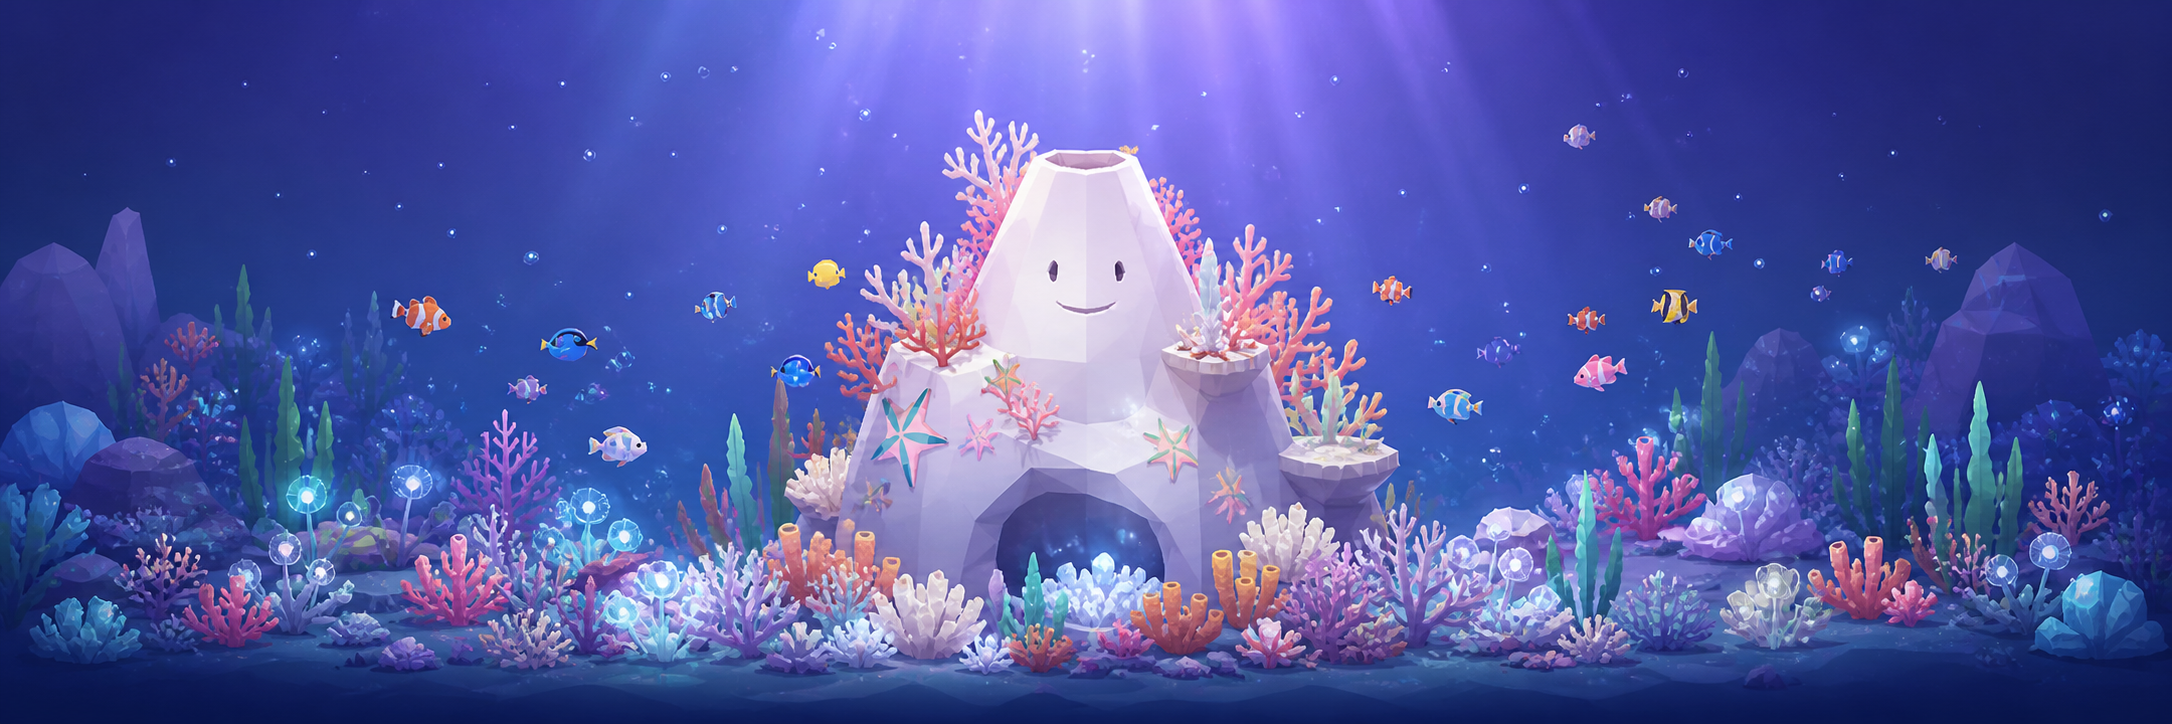
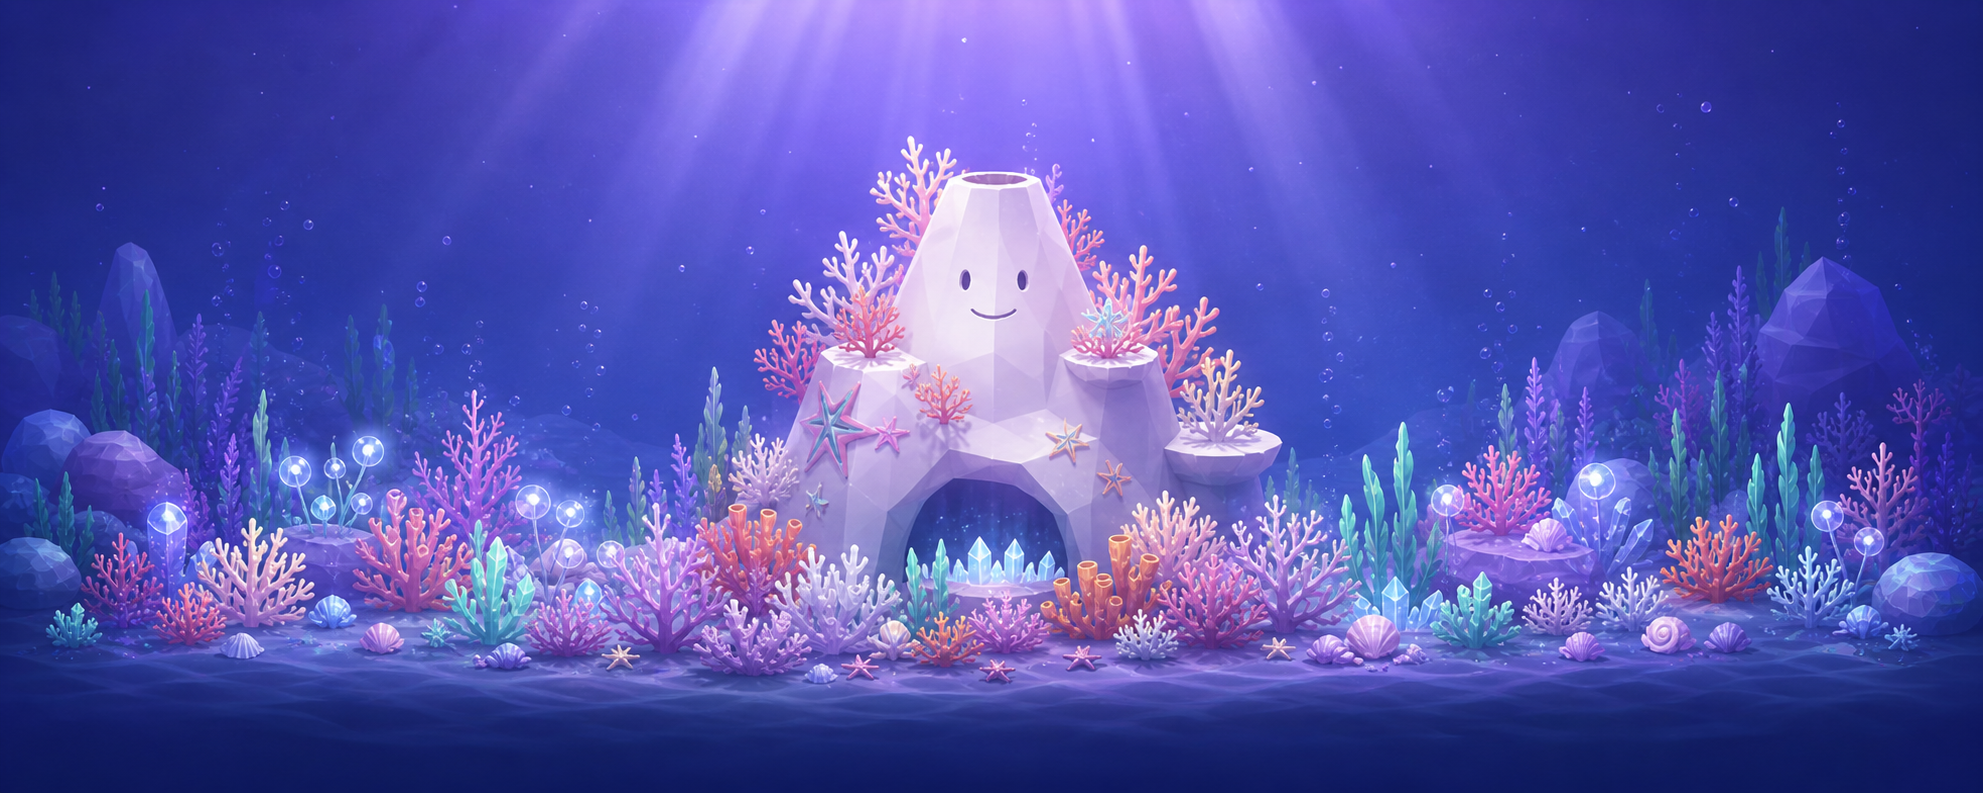
Remove taskbar UI chrome and use global input reactions

diff --git a/src/ui/app.ts b/src/ui/app.ts
@@ -1,29 +1,10 @@
-import {
-  Camera,
-  Maximize2,
-  Minimize2,
-  Waves,
-  createIcons
-} from "lucide";
 import { connectInputRouter } from "../input/inputRouter";
 import { TaskbarReefRenderer } from "../render/TaskbarReefRenderer";
 import {
-  applyInputAction,
   createInitialReefState,
   setReefMode,
   tickReefState
 } from "../simulation/reefState";
-
-const refreshIcons = (): void => {
-  createIcons({
-    icons: {
-      Camera,
-      Maximize2,
-      Minimize2,
-      Waves
-    }
-  });
-};
 
 export const bootAbyssriumDesk = (): void => {
   const root = document.querySelector<HTMLDivElement>("#app");
@@ -54,20 +35,6 @@ export const bootAbyssriumDesk = (): void => {
 
       <section class="reef-dock" data-mode="compact" aria-label="Abyssrium reef taskbar">
         <canvas class="reef-canvas" aria-hidden="true"></canvas>
-        <div class="reef-hud">
-          <span class="reef-mark" aria-hidden="true"><i data-lucide="waves"></i></span>
-          <div class="reef-meter" aria-label="reef activity">
-            <span data-glow-meter></span>
-          </div>
-          <div class="reef-actions">
-            <button class="icon-button" type="button" data-action="capture" aria-label="react">
-              <i data-lucide="camera"></i>
-            </button>
-            <button class="icon-button" type="button" data-action="toggle" aria-label="expand">
-              <i data-lucide="maximize-2"></i>
-            </button>
-          </div>
-        </div>
       </section>
 
       <nav class="windows-taskbar" aria-label="desktop taskbar mock">
@@ -79,41 +46,17 @@ export const bootAbyssriumDesk = (): void => {
     </main>
   `;
 
-  refreshIcons();
-
   const reefDock = root.querySelector<HTMLElement>(".reef-dock");
   const canvas = root.querySelector<HTMLCanvasElement>(".reef-canvas");
-  const toggleButton = root.querySelector<HTMLButtonElement>('[data-action="toggle"]');
-  const captureButton = root.querySelector<HTMLButtonElement>('[data-action="capture"]');
 
-  if (!reefDock || !canvas || !toggleButton || !captureButton) {
+  if (!reefDock || !canvas) {
     throw new Error("Taskbar reef DOM failed to initialize.");
   }
-
-  let renderedMode = "";
 
   const renderState = (): void => {
     root.toggleAttribute("data-expanded", state.mode === "expanded");
     reefDock.dataset.mode = state.mode;
     reefDock.style.setProperty("--reef-glow", state.glow.toFixed(3));
-
-    const glowMeter = root.querySelector<HTMLElement>("[data-glow-meter]");
-    if (glowMeter) {
-      glowMeter.style.transform = `scaleX(${Math.max(0.08, state.glow)})`;
-    }
-
-    if (renderedMode !== state.mode) {
-      toggleButton.setAttribute(
-        "aria-label",
-        state.mode === "compact" ? "expand" : "collapse"
-      );
-      toggleButton.innerHTML =
-        state.mode === "compact"
-          ? '<i data-lucide="maximize-2"></i>'
-          : '<i data-lucide="minimize-2"></i>';
-      renderedMode = state.mode;
-      refreshIcons();
-    }
   };
 
   const renderer = new TaskbarReefRenderer(canvas, () => state, (now, delta) => {
@@ -132,27 +75,10 @@ export const bootAbyssriumDesk = (): void => {
     onStateChange: renderState
   });
 
-  toggleButton.addEventListener("click", () => {
+  reefDock.addEventListener("click", () => {
     setReefMode(state, state.mode === "compact" ? "expanded" : "compact");
     renderState();
     window.setTimeout(() => renderer.resize(), 180);
-  });
-
-  captureButton.addEventListener("click", () => {
-    const action = {
-      kind: "capture" as const,
-      at: performance.now(),
-      intensity: 1.2,
-      x: reefDock.clientWidth * 0.5,
-      y: reefDock.clientHeight * 0.5
-    };
-    applyInputAction(state, action);
-    renderer.pushInput(action);
-    if (state.mode === "compact") {
-      setReefMode(state, "expanded");
-      window.setTimeout(() => renderer.resize(), 180);
-    }
-    renderState();
   });
 
   renderState();

diff --git a/src/styles/app.css b/src/styles/app.css
@@ -205,6 +205,7 @@ button {
     border-radius 220ms ease,
     box-shadow 220ms ease;
   isolation: isolate;
+  cursor: pointer;
 }
 
 .reef-dock[data-mode="expanded"] {
@@ -217,102 +218,6 @@ button {
   inset: 0;
   width: 100%;
   height: 100%;
-}
-
-.reef-hud {
-  position: absolute;
-  right: 0;
-  bottom: 0;
-  left: 0;
-  z-index: 2;
-  display: grid;
-  grid-template-columns: 48px minmax(92px, 164px) auto;
-  gap: 12px;
-  align-items: center;
-  height: var(--reef-compact-height);
-  padding: 8px 10px 8px 14px;
-  pointer-events: none;
-}
-
-.reef-dock[data-mode="expanded"] .reef-hud {
-  background: linear-gradient(
-    180deg,
-    rgba(3, 18, 30, 0),
-    rgba(3, 18, 30, 0.44)
-  );
-}
-
-.reef-mark {
-  display: grid;
-  place-items: center;
-  flex: 0 0 auto;
-  width: 34px;
-  height: 34px;
-  border: 1px solid rgba(227, 254, 255, 0.58);
-  border-radius: 999px;
-  color: #dffcff;
-  background: rgba(8, 45, 61, 0.56);
-  box-shadow: inset 0 0 18px rgba(100, 243, 255, 0.2);
-}
-
-.reef-mark svg,
-.icon-button svg {
-  width: 18px;
-  height: 18px;
-  stroke-width: 2.1;
-}
-
-.reef-meter {
-  justify-self: end;
-  width: min(164px, 20vw);
-  height: 5px;
-  overflow: hidden;
-  border-radius: 999px;
-  background: rgba(223, 252, 255, 0.19);
-  box-shadow: inset 0 0 10px rgba(1, 18, 26, 0.34);
-}
-
-.reef-meter span {
-  display: block;
-  width: 100%;
-  height: 100%;
-  border-radius: inherit;
-  background: linear-gradient(90deg, var(--reef-cyan), var(--reef-coral));
-  transform: scaleX(0.4);
-  transform-origin: left center;
-  transition: transform 160ms ease;
-}
-
-.reef-actions {
-  display: flex;
-  justify-self: end;
-  gap: 8px;
-  pointer-events: auto;
-}
-
-.icon-button {
-  display: grid;
-  place-items: center;
-  width: 38px;
-  height: 38px;
-  padding: 0;
-  border: 1px solid rgba(224, 253, 255, 0.5);
-  border-radius: 10px;
-  color: #f5feff;
-  background: rgba(5, 31, 45, 0.54);
-  box-shadow:
-    inset 0 0 16px rgba(95, 230, 255, 0.14),
-    0 4px 18px rgba(0, 9, 18, 0.22);
-  cursor: pointer;
-}
-
-.icon-button:hover {
-  background: rgba(33, 91, 111, 0.72);
-}
-
-.icon-button:focus-visible {
-  outline: 3px solid rgba(255, 176, 138, 0.7);
-  outline-offset: 2px;
 }
 
 .windows-taskbar {
@@ -378,15 +283,6 @@ button {
     left: 10px;
   }
 
-  .reef-hud {
-    grid-template-columns: 44px minmax(58px, 1fr) auto;
-    gap: 8px;
-    padding-right: 8px;
-  }
-
-  .reef-meter {
-    width: min(126px, 22vw);
-  }
 }
 
 @media (prefers-reduced-motion: reduce) {

diff --git a/src/render/TaskbarReefRenderer.ts b/src/render/TaskbarReefRenderer.ts
@@ -45,7 +45,6 @@ export class TaskbarReefRenderer {
   private lastFrame = performance.now();
   private width = 1;
   private height = 1;
-  private pointerX = 0.5;
 
   constructor(
     private readonly canvas: HTMLCanvasElement,
@@ -93,8 +92,7 @@ export class TaskbarReefRenderer {
 
   pushInput(action: InputAction): void {
     const x = action.x ?? this.width * (0.35 + Math.random() * 0.3);
-    const y = action.y ?? this.height * 0.72;
-    this.pointerX = clamp(x / this.width, 0, 1);
+    const y = action.y ?? this.height * (0.42 + Math.random() * 0.22);
 
     if (action.kind === "pointerMove") {
       this.spawnBubbleStream(x, y, 1 + action.intensity * 2);
@@ -178,8 +176,12 @@ export class TaskbarReefRenderer {
       const drawHeight = imageHeight * scale;
       const drift = Math.sin(time * 0.08 + state.tide * Math.PI * 2) * 22;
       const dx = (this.width - drawWidth) * 0.5 + drift;
-      const compactAnchor = this.height - drawHeight + 258;
-      const expandedAnchor = this.height - drawHeight * 0.82;
+      // The corallite face is the IP signal, so both compact and expanded
+      // crops anchor to its approximate vertical center instead of the image
+      // top or seabed. This maps cleanly to a Unity camera target later.
+      const coralliteFaceY = drawHeight * 0.4;
+      const compactAnchor = this.height * 0.52 - coralliteFaceY;
+      const expandedAnchor = this.height * 0.5 - coralliteFaceY;
       const dy = state.mode === "compact" ? compactAnchor : expandedAnchor;
       ctx.drawImage(this.reefImage, dx, dy, drawWidth, drawHeight);
     } else {
@@ -216,9 +218,8 @@ export class TaskbarReefRenderer {
     for (const fish of this.fish) {
       const col = fish.spriteIndex % columns;
       const row = Math.floor(fish.spriteIndex / columns);
-      const leanToPointer = (this.pointerX - fish.x) * 0.12;
       const swimY = fish.lane + Math.sin(time * 1.4 + fish.phase) * 0.035;
-      const x = (fish.x + leanToPointer) * this.width;
+      const x = fish.x * this.width;
       const y = swimY * this.height;
       const drawHeight = baseSize * fish.scale;
       const drawWidth = drawHeight * (cellWidth / cellHeight);
@@ -346,6 +347,3 @@ const removeDead = <T extends { age: number; life: number }>(items: T[]): void =
     }
   }
 };
-
-const clamp = (value: number, min: number, max: number): number =>
-  Math.min(max, Math.max(min, value));

diff --git a/src/input/inputRouter.ts b/src/input/inputRouter.ts
@@ -23,8 +23,13 @@ export const connectInputRouter = ({
   ): void => {
     const rect = reefElement.getBoundingClientRect();
     const pointerEvent = event instanceof PointerEvent ? event : undefined;
-    const x = pointerEvent ? pointerEvent.clientX - rect.left : undefined;
-    const y = pointerEvent ? pointerEvent.clientY - rect.top : undefined;
+    const screenX = pointerEvent
+      ? clamp(pointerEvent.clientX / Math.max(1, window.innerWidth), 0, 1)
+      : 0.5;
+    const x = pointerEvent ? screenX * rect.width : undefined;
+    const y = pointerEvent
+      ? rect.height * (kind === "pointerMove" ? 0.46 : 0.58)
+      : undefined;
     const action = {
       kind,
       at: performance.now(),
@@ -42,10 +47,7 @@ export const connectInputRouter = ({
   };
 
   const handleKeyDown = (event: KeyboardEvent): void => {
-    if (event.repeat) {
-      return;
-    }
-    dispatch("keyboard", event, event.key === " " ? 1.25 : 0.9);
+    dispatch("keyboard", event, event.repeat ? 0.45 : event.key === " " ? 1.25 : 0.9);
   };
 
   const handlePointerMove = (event: PointerEvent): void => {
@@ -61,14 +63,22 @@ export const connectInputRouter = ({
     dispatch("pointerTap", event, 1.15);
   };
 
+  const handleWheel = (): void => {
+    dispatch("pointerTap", undefined, 0.75);
+  };
+
   window.addEventListener("keydown", handleKeyDown);
   window.addEventListener("pointermove", handlePointerMove);
-  reefElement.addEventListener("pointerdown", handlePointerDown);
+  window.addEventListener("pointerdown", handlePointerDown);
+  window.addEventListener("wheel", handleWheel, { passive: true });
 
   return () => {
     window.removeEventListener("keydown", handleKeyDown);
     window.removeEventListener("pointermove", handlePointerMove);
-    reefElement.removeEventListener("pointerdown", handlePointerDown);
+    window.removeEventListener("pointerdown", handlePointerDown);
+    window.removeEventListener("wheel", handleWheel);
   };
 };
 
+const clamp = (value: number, min: number, max: number): number =>
+  Math.min(max, Math.max(min, value));

diff --git a/tests/taskbar.spec.ts b/tests/taskbar.spec.ts
@@ -6,6 +6,7 @@ test("taskbar reef renders and reacts to input", async ({ page }) => {
   await expect(reef).toBeVisible();
   await expect(reef).toHaveAttribute("data-mode", "compact");
   await expect(reef).toHaveText("");
+  await expect(page.locator(".reef-mark, .reef-meter, .reef-actions, .icon-button")).toHaveCount(0);
 
   const compactBox = await reef.boundingBox();
   expect(compactBox?.height).toBeGreaterThanOrEqual(54);
@@ -25,7 +26,7 @@ test("taskbar reef renders and reacts to input", async ({ page }) => {
   });
   expect(pixelSample).toBeGreaterThan(0);
 
-  await page.locator('[data-action="toggle"]').click();
+  await reef.click();
   await expect(reef).toHaveAttribute("data-mode", "expanded");
   await expect
     .poll(async () => {
